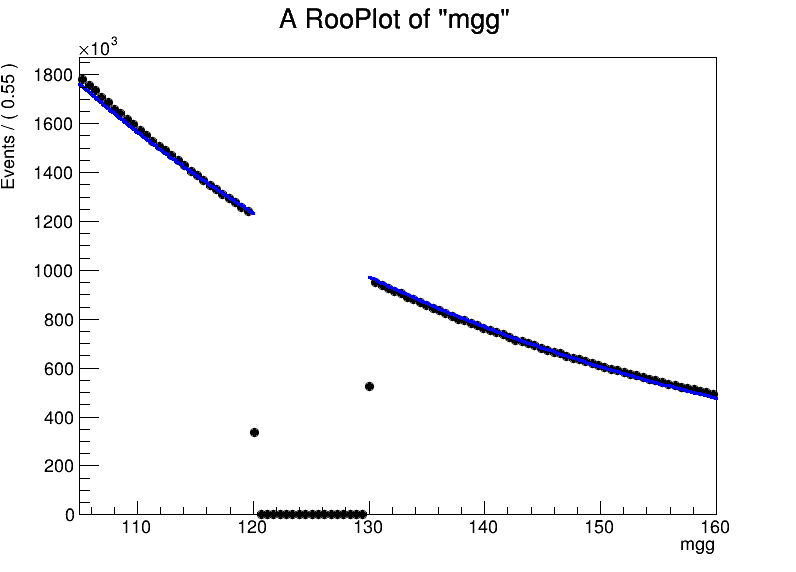
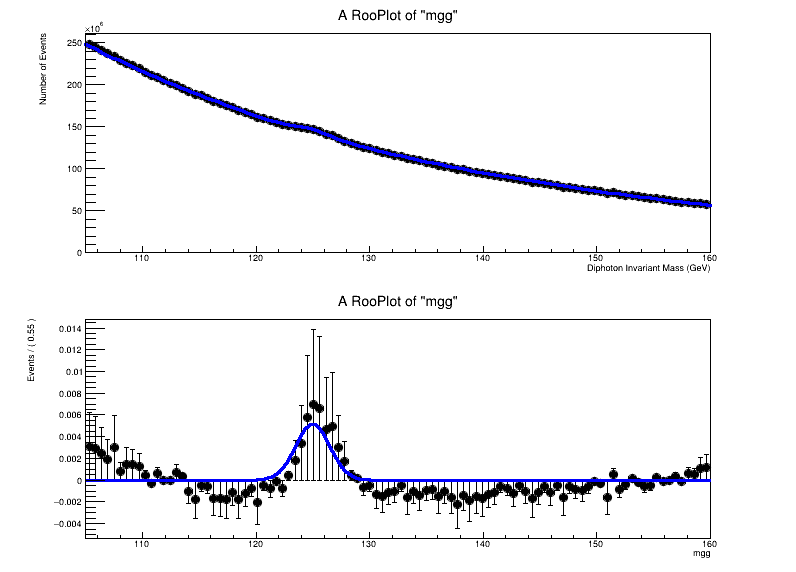
More changes to higgs code

diff --git a/higgsFit.C b/higgsFit.C
@@ -47,15 +47,15 @@ RooDataHist data("data", "data", mgg, Import(*h_m));
 //Only fitting data to the sideband regions
 mgg.setRange("low",105,120);
 mgg.setRange("high",130,160);
+mgg.setRange("total",105,160);
 background_pdf.fitTo(data,RooFit::Range("low,high"),RooFit::Save());
-
 //setting the polynomial coefficients so as they're not adjusted later
 
 coef1.setConstant(true);
 coef2.setConstant(true);
 coef3.setConstant(true);
 coef4.setConstant(true);
-
+background_pdf.fitTo(data,RooFit::Range("total"),RooFit::Save());
 //cout << coef1.getVal() << endl;
 //cout << coef2.getVal() << endl;
 //cout << coef3.getVal() << endl;
@@ -72,53 +72,64 @@ mean.setConstant(true);
 sigma.setConstant(true);
 
 //Fitting to an Extended PDF with Background + Signal Gaussian
-
-RooRealVar Nb("Nb", "Number of background events", 10000000, 0, 100000000000);
-RooRealVar Ns("Ns", "Number of signal events", 1000000, 0, 1000000000);
+float upperlim =  h_m->Integral();
+RooRealVar Nb("Nb", "Number of background events", upperlim/100, 0, upperlim);
+RooRealVar Ns("Ns", "Number of signal events", upperlim/100, 0, upperlim);
 RooAddPdf model("model", "Extended PDF", RooArgList(signal_pdf, background_pdf), RooArgList(Ns, Nb));
-mgg.setRange("signal",120,130);
-model.fitTo(data,RooFit::Range("signal"),RooFit::Save());
+model.fitTo(data,RooFit::Range("total"),RooFit::Save());
 
-cout << Ns.getVal() << endl;
-cout << Nb.getVal() << endl;
-cout << sigma.getVal() << endl;
+//cout << Ns.getVal() << endl;
+//cout << Nb.getVal() << endl;
+//cout << sigma.getVal() << endl;
 
 RooExtendPdf extended_pdf("extendedPdf", "Extended PDF with normalization", model, Ns);
 //Computing Residuals
 
 //RooRealVar x("x","Bin Centers",130,105,160);
 double dataValue,fittedValue,residual;
-int totalEntries = h_m->GetEntries();
 TH1D *h_residual = new TH1D("h_residuals","h_residuals",100,105,160);
-RooArgSet obs(mgg);
-double scaleFactor = h_m->Integral() / extended_pdf.createIntegral(mgg)->getVal();
-
+//RooArgSet obs(mgg);
+double scaleFactor = h_m->Integral()*h_m->GetBinWidth(1) / background_pdf.createIntegral(mgg,RooFit::Range(""))->getVal();
+cout << endl<<endl<<background_pdf.createIntegral(mgg,RooFit::Range(""))->getVal() << endl << endl;
+cout << mgg.getMin() << " " << mgg.getMax() << endl;
+//RooPlot* frame2 = mgg.frame();
+//data.plotOn(frame2);
+//double scaleFactor = background_pdf.getNormObj()->getVal();
 for (int i = 0; i < h_m->GetNbinsX(); ++i) {
         mgg.setVal(h_m->GetBinCenter(i+1));
-        dataValue = h_m->GetBinContent(i+1);
-        fittedValue = extended_pdf.getVal(RooArgSet(mgg))*scaleFactor;
-// fittedValue = extended_pdf.getVal();
+        dataValue = h_m->GetBinContent(i+1)/scaleFactor;
+        fittedValue = background_pdf.getVal();
+       // fittedValue = extended_pdf.getVal()*scaleFactor;
         residual = dataValue - fittedValue;
-        cout << dataValue << " " << fittedValue << endl;
+       // cout << dataValue << " " << fittedValue << endl;
         h_residual->SetBinContent(i+1, residual);
+        h_residual->SetBinError(i+1,0);
     }
 
-RooDataHist data_residual("data", "data", mgg, Import(*h_residual));
+RooDataHist data_residual("data", "data", mgg, Import(*h_residual),RooFit::DataError(RooAbsData::SumW2));
+TCanvas *c3 = new TCanvas("c3","Invariant Mass Distribution",800,600);
+RooPlot *frame2 = mgg.frame(Title(""));
+data.plotOn(frame2, RooFit::SumW2Error(false));
+background_pdf.plotOn(frame2);
+frame2->Draw();
+c3->SaveAs("Test.png");
 
+//RooHist *hresid1 = frame2->residHist();
+//RooDataHist hresid("dataHist", "Data from RooHist", mgg, Import(*hresid1));
 //Drawing Complete Invariant Mass Distribution
 
-TCanvas *c2 = new TCanvas("c2","Residuals",800,600);
-h_residual->Draw();
-c2->SaveAs("ResidualsTEST.png");
+//TCanvas *c2 = new TCanvas("c2","Residuals",800,600);
+//hresid->Draw();
+//c2->SaveAs("ResidualsTEST.png");
 
 
 //Plotting the invariant mass histogram and curve fit for the background data
 
 TCanvas *c = new TCanvas("c","Invariant Mass Distribution",800,600);
-//c->Divide(1, 2);
+c->Divide(1, 2);
 
 
-//c->cd(1);
+c->cd(1);
 RooPlot* frame = mgg.frame();
 data.plotOn(frame);
 extended_pdf.plotOn(frame);
@@ -126,14 +137,15 @@ frame->GetXaxis()->SetTitle("Diphoton Invariant Mass (GeV)");
 frame->GetYaxis()->SetTitle("Number of Events");
 frame->Draw();
 
-//c->cd(2);
+c->cd(2);
+mgg.setRange("signal1",120,130);
+signal_pdf.fitTo(data_residual,RooFit::Range("signal1"),RooFit::Save());
+RooPlot* frame1 = mgg.frame();
+data_residual.plotOn(frame1);
+signal_pdf.plotOn(frame1,RooFit::Range("total"));
+frame1->Draw();
 
-//RooPlot* frame1 = mgg.frame();
-//data_residual.plotOn(frame1);
-//signal_pdf.plotOn(frame1);
-//frame1->Draw();
-
-//c->Update();
+c->Update();
 c->SaveAs("InvariantMassFit.png");
 
 }

diff --git a/higgs.C b/higgs.C
@@ -23,7 +23,8 @@ string append;
 float y1_pt, y2_pt = 0;
 float y1_eta,y2_eta = 0;
 float y1_phi,y2_phi = 0;
-float weight = 0;
+float weight,cross = 0;
+UInt_t chnum = 0;
 Char_t ispassed = 0;
 
 double myy;
@@ -47,7 +48,10 @@ tree->SetBranchAddress("y1_phi",&y1_phi);
 tree->SetBranchAddress("y2_phi",&y2_phi);
 tree->SetBranchAddress("HGamEventInfoAuxDyn.isPassed",&ispassed);
 tree->SetBranchAddress("HGamEventInfoAuxDyn.weight",&weight);
+tree->SetBranchAddress("HGamEventInfoAuxDyn.crossSectionBRfilterEff",&cross);
+tree->SetBranchAddress("EventInfoAuxDyn.mcChannelNumber",&chnum);
 TLorentzVector photon1,photon2;
+float weight_normalized;
      //Iterating over all entries in the Ttree
      for(int j=0;j<tree->GetEntries();++j){
              tree->GetEntry(j);
@@ -57,6 +61,7 @@ TLorentzVector photon1,photon2;
                    photon1.SetPtEtaPhiM(y1_pt,y1_eta,y1_phi,0);
                    photon2.SetPtEtaPhiM(y2_pt,y2_eta,y2_phi,0);
                    myy = (photon1+photon2).M()/1000;
+                   weight_normalized = 31400*cross*weight/chnum;
                //Filling Signal or Sideband histogram depending on if invariant mass is within signal region
                if(myy>120 and myy<130) h_mSignal->Fill(myy,weight);
                else h_mSidebands->Fill(myy,weight);
